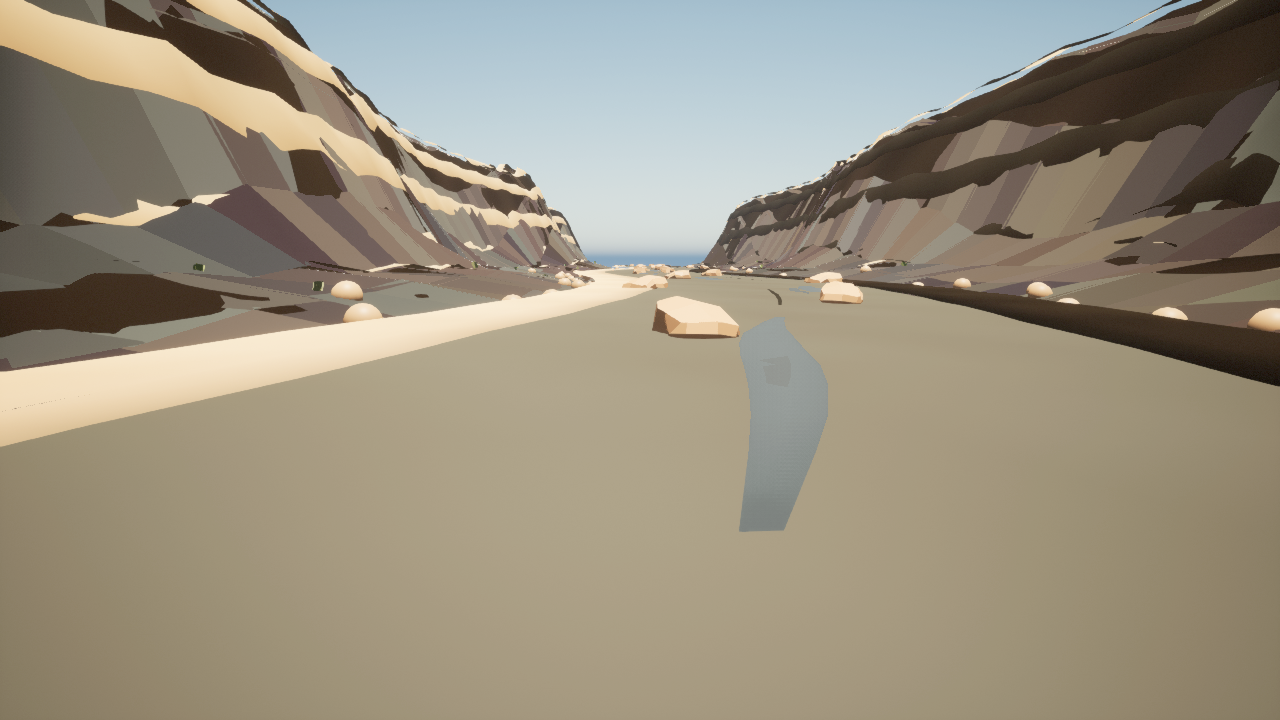
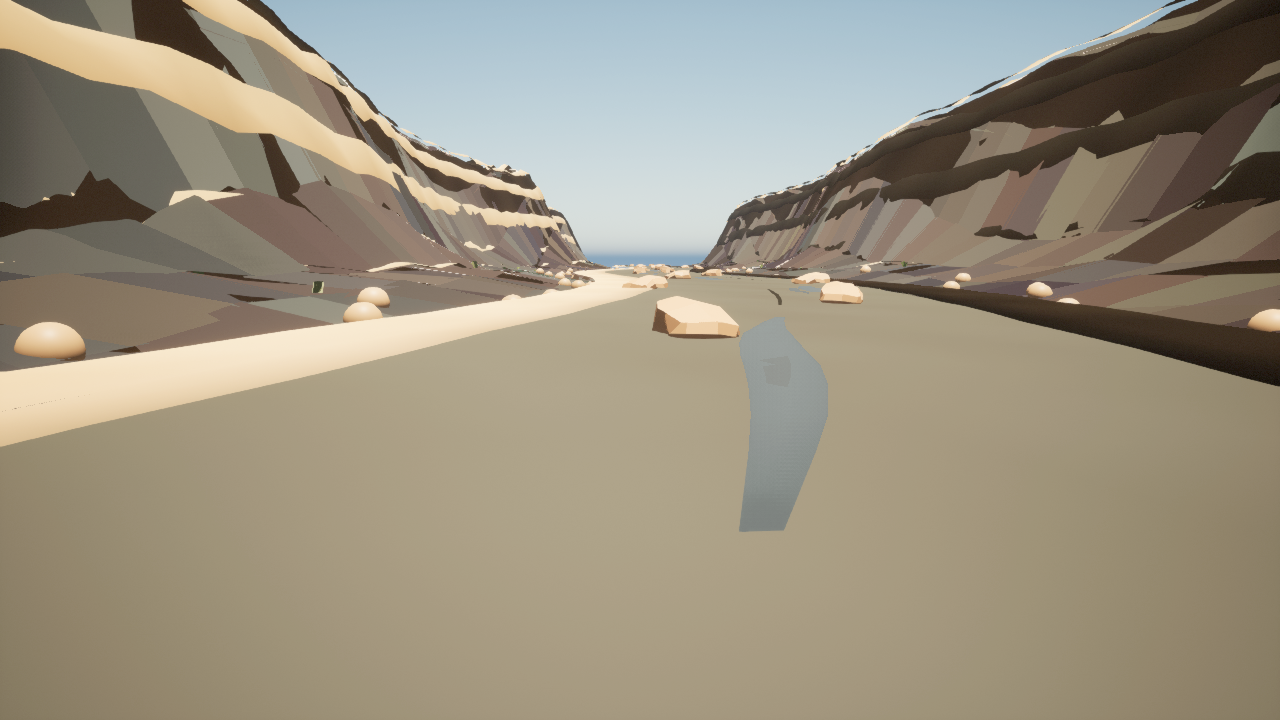
Wire Colorado preview to pilot derivatives

diff --git a/unreal/Plugins/RaftSim/Source/RaftSimEditor/Private/RaftSimEditorModule.cpp b/unreal/Plugins/RaftSim/Source/RaftSimEditor/Private/RaftSimEditorModule.cpp
@@ -258,19 +258,19 @@ TArray<FRaftSimEnvironmentPreviewSpec> GetEnvironmentPreviewSpecs()
     Colorado.MapPackagePath = TEXT("/Game/RaftSim/Maps/EnvironmentPreviews/L_ColoradoGrandCanyon_PhotorealPreview");
     Colorado.SourceManifest = TEXT("physics/data/real_world/colorado_river_grand_canyon_rowing/source_manifest.json");
     Colorado.AerialDrapeImage =
-        TEXT("physics/data/real_world/colorado_river_grand_canyon_rowing/imagery/usda_naip_lees_ferry_corridor_sample_1024.png");
+        TEXT("physics/data/real_world/colorado_river_grand_canyon_rowing/imagery/production_import_pilot/source_drape_4096.png");
     Colorado.TerrainReliefImage =
-        TEXT("physics/data/real_world/colorado_river_grand_canyon_rowing/terrain/usgs_3dep_lees_ferry_corridor_relief_preview_1024.png");
+        TEXT("physics/data/real_world/colorado_river_grand_canyon_rowing/terrain/production_import_pilot/dem_relief_2048.png");
     Colorado.HeightfieldPreviewImage =
-        TEXT("physics/data/real_world/colorado_river_grand_canyon_rowing/terrain/usgs_3dep_lees_ferry_corridor_heightfield_1009.png");
+        TEXT("physics/data/real_world/colorado_river_grand_canyon_rowing/terrain/production_import_pilot/heightfield_candidate_2017.png");
     Colorado.WaterMaskImage =
-        TEXT("physics/data/real_world/colorado_river_grand_canyon_rowing/imagery/usda_naip_lees_ferry_corridor_water_mask_1024.png");
+        TEXT("physics/data/real_world/colorado_river_grand_canyon_rowing/imagery/production_import_pilot/water_mask_2048.png");
     Colorado.VegetationMaskImage =
-        TEXT("physics/data/real_world/colorado_river_grand_canyon_rowing/imagery/usda_naip_lees_ferry_corridor_vegetation_mask_1024.png");
+        TEXT("physics/data/real_world/colorado_river_grand_canyon_rowing/imagery/production_import_pilot/vegetation_mask_2048.png");
     Colorado.ElevationSample =
-        TEXT("physics/data/real_world/colorado_river_grand_canyon_rowing/terrain/usgs_3dep_lees_ferry_corridor_sample_512.tif");
+        TEXT("physics/data/real_world/colorado_river_grand_canyon_rowing/terrain/production_import_pilot/3dep_tiles");
     Colorado.SourceDrapeDescription =
-        TEXT("larger official USDA/APFO NAIP 1024px Lees Ferry corridor sample sampled into a denser terrain-conforming canyon source-drape mosaic; larger derived USGS 3DEP 1024px relief preview and review-gated 1009px heightfield candidate sampled into canyon bank preview geometry; review-gated source water/vegetation masks sampled into terrain color and deterministic wet-rock, talus, sparse scrub, and boulder placement; first-party procedural strata, talus, wet-rock, and vertex-color water-gradient detail generated as rights-safe proxy dressing; full canyon heightfield conditioning remains pending; rocks, foliage, water shaders, foam, raft, and lighting remain proxy layers");
+        TEXT("stitched Colorado/Lees Ferry production-import pilot source drape generated from four official USDA/APFO NAIP 2048px tiles, plus stitched USGS 3DEP pilot DEM relief and a review-gated 2017px heightfield candidate sampled into canyon bank preview geometry; pilot source water/vegetation masks are sampled into terrain color and deterministic wet-rock, talus, sparse scrub, and boulder placement; all pilot derivatives remain review-gated until metadata review, mosaic/clip, river-mile stationing, hydrologic conditioning, release-aware masks, and guide/oarsman approval pass; rocks, foliage, water shaders, foam, raft, and lighting remain proxy layers");
     Colorado.FlowBandId = TEXT("moderate_release_planning");
     Colorado.FlowBandDisplayName = TEXT("Moderate Release Planning");
     Colorado.FlowBandSource = TEXT("physics/data/real_world/colorado_river_grand_canyon_rowing/flow_presets.json");

diff --git a/TODO.md b/TODO.md
@@ -966,6 +966,7 @@ This milestone turns the three runnable river targets into complete, reviewable,
 - [x] Select Colorado/Lees Ferry as the second production geospatial import pilot and generate its executable source recipe: `physics/data/real_world/colorado_river_grand_canyon_rowing/production_import_pilot.json` now defines a review-gated 2x2 official-service tile plan for USGS 3DEP DEM and USDA/APFO NAIP imagery exports over the current Lees Ferry pilot bounds, plus river-mile stationing, USBR Glen Canyon release-context, NPS/publication sensitivity, sandbar/wet-bank mask, and guide/oarsman media annotation gates before it can replace preview data.
 - [x] Pull the first Colorado/Lees Ferry production import pilot source tiles: four official USGS 3DEP 1024px float GeoTIFF DEM tiles and four official USDA/APFO NAIP 2048px RGB PNG imagery tiles are now attached under `terrain/production_import_pilot/3dep_tiles/` and `imagery/production_import_pilot/naip_tiles/`, with checksums, dimensions, source URLs, and review gates recorded in `production_import_pilot_pull_manifest.json`. The tiles remain review-gated until mosaic/clip, metadata review, river-mile stationing, release-aware mask derivation, and guide/oarsman approval pass.
 - [x] Generate review-gated Colorado/Lees Ferry production-import pilot derivatives from the pulled source tiles: `source_drape_4096.png`, `dem_relief_2048.png`, `heightfield_candidate_2017.png`, `water_mask_2048.png`, and `vegetation_mask_2048.png` are now generated from the official tile pull with processing/caveats recorded in `production_import_pilot_derivatives_manifest.json`. These are larger source-derived Unreal inputs for the next pass, not conditioned production canyon terrain.
+- [x] Wire the Colorado Unreal preview to the production-import pilot derivatives and refresh captures: the generated preview now uses `source_drape_4096.png`, `dem_relief_2048.png`, `heightfield_candidate_2017.png`, `water_mask_2048.png`, and `vegetation_mask_2048.png` for Colorado terrain/drape/mask sampling, with guide-seat and river-eye captures regenerated while keeping those inputs review-gated until metadata review, mosaic/clip, river-mile stationing, release-aware masks, and guide/oarsman approval pass.
 - [ ] Pull or attach reviewed production geospatial source data: DEM/lidar, hydrography, aerial/satellite imagery, water/vegetation masks, flow/gauge/rainfall history, protected-area/access context, and guide/media annotation references.
 - [ ] Replace proxy terrain, banks, rocks, foliage, water materials, foam/spray/mist, wetness, and lighting with source-derived or rights-cleared assets until screenshots read as lifelike without hiding hazards or rescue targets.
 - [ ] Add or license production-quality river environment asset packs/materials, or generate approved first-party procedural equivalents, for canyon walls, riverbeds, wet boulders, shore vegetation, tropical canopy, foam/spray/mist, raft foreground, and river-specific atmospheric lighting.

diff --git a/docs/photoreal-river-environment-production-plan.md b/docs/photoreal-river-environment-production-plan.md
@@ -87,6 +87,7 @@ Initial source slice:
 - Colorado/Lees Ferry is now the second production import pilot recipe. `physics/data/real_world/colorado_river_grand_canyon_rowing/production_import_pilot.json` records a review-gated 2x2 official-service tile plan over the current Lees Ferry pilot bounds, plus Grand Canyon river-mile stationing, USBR Glen Canyon release-context, NPS/publication sensitivity, sandbar/wet-bank mask, and guide/oarsman media annotation gates.
 - The Colorado pilot source pull has begun: four official USGS 3DEP 1024px float GeoTIFF DEM tiles and four official USDA/APFO NAIP 2048px RGB PNG imagery tiles are attached under `terrain/production_import_pilot/3dep_tiles/` and `imagery/production_import_pilot/naip_tiles/`, with dimensions, byte sizes, hashes, source URLs, and review gates recorded in `physics/data/real_world/colorado_river_grand_canyon_rowing/production_import_pilot_pull_manifest.json`. These tiles still need mosaic/clip, metadata review, river-mile stationing, release-aware mask derivation, and guide/oarsman approval before they can drive lifelike canyon terrain.
 - The Colorado pilot tiles now also have review-gated stitched derivatives: `imagery/production_import_pilot/source_drape_4096.png`, `terrain/production_import_pilot/dem_relief_2048.png`, `terrain/production_import_pilot/heightfield_candidate_2017.png`, `imagery/production_import_pilot/water_mask_2048.png`, and `imagery/production_import_pilot/vegetation_mask_2048.png`, with processing and caveats in `production_import_pilot_derivatives_manifest.json`. These are larger source-derived inputs for the next Unreal pass, not conditioned production canyon terrain yet.
+- The Colorado Unreal preview now samples those pilot derivatives for the aerial drape, terrain relief, heightfield preview, water mask, and vegetation mask, with refreshed guide-seat and river-eye captures recorded in `docs/environment-captures/photoreal_river_previews/environment_capture_manifest.json`. The frames are still proxy art and not lifelike, but the Colorado preview is now on the same source-derivative path as South Fork.
 - OpenTopography SRTMGL1 was probed and returned an API-key requirement, so that path remains available only after key and terms review.
 
 ## Unreal Construction Plan